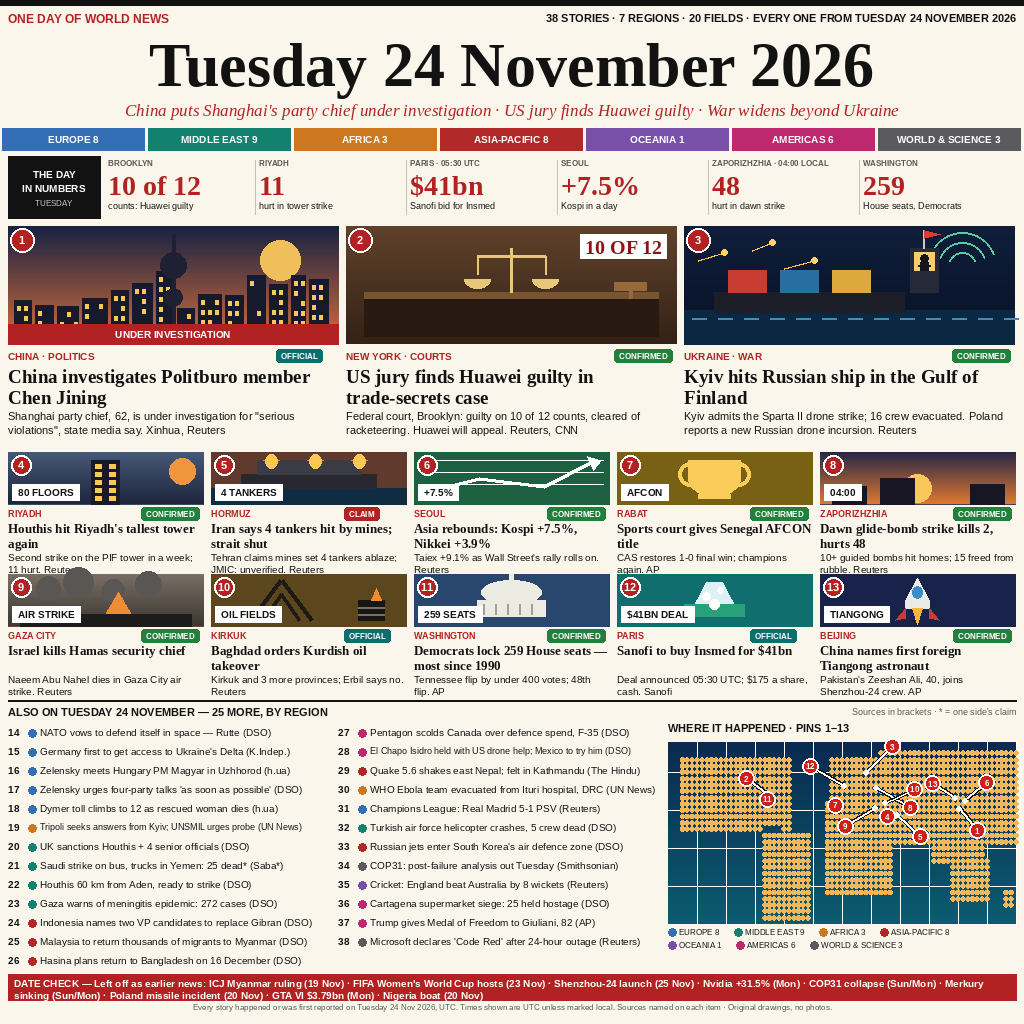
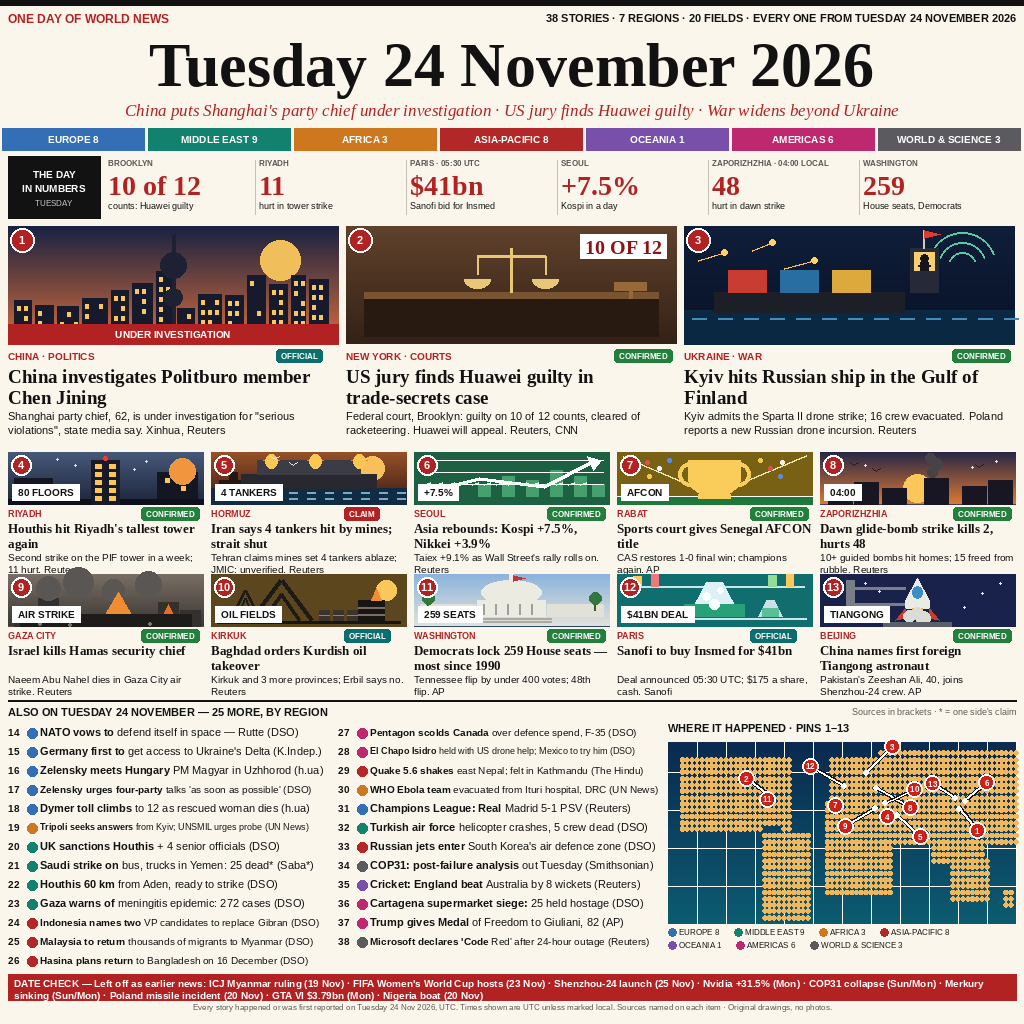
Fix pass: richer card scenes, bolder + larger briefs
- All 10 pictured card scenes enriched in-scene (skyline/stars,
  dusk sea + distant tanker, volume bars + second trend line,
  stadium crowd/beams/pitch, dawn skyline + smoke, ruined skyline
  + second flame, second derrick + sun + barrels, capitol wings/
  trees/flag/steps, lab shelf + second flask, gantry + plume/pad)
- Briefs: base 10px -> 11px (floor 9px), first 3 words bolded,
  region dots 8px -> 10px; texts verbatim, 0 overflows
- No story facts, figures, sources, counts or DATE CHECK changed

diff --git a/frontpage2.py b/frontpage2.py
@@ -355,25 +355,62 @@ def card_scene(d, x, y, w, h, kind, tag, bg):
     d.rectangle([x, y, x + w, y + h], fill=bg)
     if kind == "tower":
         vgrad(d, (x, y, x + w, y + h), (70, 88, 120), (30, 38, 60))
+        # flanking skyline
+        d.rectangle([x + 6, y + h - 26, x + 44, y + h], fill=(20, 22, 34))
+        d.rectangle([x + w - 46, y + h - 32, x + w - 6, y + h], fill=(20, 22, 34))
+        for (wx, wy) in ((x + 12, y + h - 20), (x + 26, y + h - 14),
+                         (x + w - 38, y + h - 26), (x + w - 22, y + h - 18)):
+            d.rectangle([wx, wy, wx + 4, wy + 4], fill=(250, 200, 90))
+        d.rectangle([x, y + h - 5, x + w, y + h], fill=(14, 16, 26))
+        for (sx, sy) in ((x + 48, y + 6), (x + 66, y + 12), (x + w - 58, y + 8), (x + w - 70, y + 16)):
+            d.ellipse([sx, sy, sx + 2, sy + 2], fill=(220, 225, 240))
         d.rectangle([x + w // 2 - 14, y + 8, x + w // 2 + 14, y + h], fill=(24, 26, 40))
         for wy in range(y + 12, y + h - 4, 8):
             d.rectangle([x + w // 2 - 10, wy, x + w // 2 - 4, wy + 4], fill=(250, 200, 90))
             d.rectangle([x + w // 2 + 4, wy, x + w // 2 + 10, wy + 4], fill=(250, 200, 90))
+        d.ellipse([x + w // 2 - 2, y + 4, x + w // 2 + 2, y + 8], fill=(240, 60, 50))
         d.ellipse([x + w - 34, y + 6, x + w - 8, y + 32], fill=(240, 150, 60))
     elif kind == "tanker":
+        vgrad(d, (x, y, x + w, y + h), (150, 80, 40), (60, 30, 24))
+        d.ellipse([x + w - 46, y + 4, x + w - 22, y + 28], fill=(250, 190, 90))
+        # distant tanker silhouette on the horizon
+        d.rectangle([x + 8, y + h - 24, x + 44, y + h - 16], fill=(40, 22, 18))
+        d.rectangle([x + 18, y + h - 32, x + 26, y + h - 24], fill=(40, 22, 18))
         d.rectangle([x, y + h - 16, x + w, y + h], fill=(16, 44, 66))
+        for wy in (y + h - 12, y + h - 6):
+            for wx in range(x + 6, x + w - 6, 18):
+                d.line([(wx, wy), (wx + 8, wy)], fill=(120, 170, 200), width=2)
         d.rectangle([x + 30, y + h - 30, x + w - 30, y + h - 16], fill=(40, 40, 48))
         d.rectangle([x + 46, y + h - 44, x + w - 46, y + h - 30], fill=(60, 60, 70))
         for fx in (x + 52, x + 96, x + 140):
             d.polygon([(fx, y + h - 44), (fx + 8, y + 8), (fx + 16, y + h - 44)], fill=(240, 130, 40))
             d.ellipse([fx + 2, y + 2, fx + 14, y + 16], fill=(250, 200, 80))
+        for (gx, gy) in ((x + 60, y + 4), (x + 78, y + 10)):
+            d.line([(gx, gy), (gx + 4, gy + 3), (gx + 8, gy)], fill=(230, 230, 220), width=1)
     elif kind == "chart":
+        # faint volume bars behind the line
+        for (bx, bh) in ((x + 64, 12), (x + 88, 20), (x + 112, 16), (x + 136, 26),
+                         (x + 160, 20), (x + 178, 12)):
+            d.rectangle([bx, y + h - 8 - bh, bx + 12, y + h - 8], fill=(70, 160, 110))
         d.line([(x + 8, y + h - 12), (x + w // 3, y + h - 26), (x + 2 * w // 3, y + h - 18),
                 (x + w - 14, y + 8)], fill=(255, 255, 255), width=4)
         d.polygon([(x + w - 22, y + 4), (x + w - 8, y + 8), (x + w - 16, y + 18)], fill=(255, 255, 255))
         for gy in range(y + 8, y + h - 8, 12):
             d.line([(x + 6, gy), (x + w - 6, gy)], fill=(255, 255, 255, 60), width=1)
+        # second, flatter trend line (dashed)
+        for sx in range(x + 10, x + w - 20, 12):
+            d.line([(sx, y + h - 20), (sx + 6, y + h - 22)], fill=(200, 255, 220), width=2)
     elif kind == "trophy":
+        # stadium: floodlight beams + crowd + pitch
+        d.line([(x + 6, y + 4), (x + w // 2 - 30, y + 30)], fill=(240, 235, 170), width=2)
+        d.line([(x + w - 6, y + 4), (x + w // 2 + 30, y + 30)], fill=(240, 235, 170), width=2)
+        for (cx, cy, cc) in ((x + 30, y + 10, (220, 80, 80)), (x + 42, y + 16, (240, 240, 240)),
+                             (x + 52, y + 8, (90, 140, 220)), (x + w - 30, y + 10, (240, 240, 240)),
+                             (x + w - 42, y + 16, (220, 80, 80)), (x + w - 52, y + 8, (240, 200, 80)),
+                             (x + 32, y + 24, (240, 200, 80)), (x + w - 32, y + 24, (90, 140, 220))):
+            d.ellipse([cx - 2, cy - 2, cx + 2, cy + 2], fill=cc)
+        d.rectangle([x, y + h - 8, x + w, y + h], fill=(30, 120, 60))
+        d.line([(x, y + h - 8), (x + w, y + h - 8)], fill=(255, 255, 255), width=1)
         d.ellipse([x + w // 2 - 26, y + 8, x + w // 2 + 26, y + 44], fill=(250, 205, 90))
         d.rectangle([x + w // 2 - 26, y + 8, x + w // 2 + 26, y + 26], fill=(250, 205, 90))
         d.rectangle([x + w // 2 - 4, y + 40, x + w // 2 + 4, y + h - 8], fill=(250, 205, 90))
@@ -382,30 +419,69 @@ def card_scene(d, x, y, w, h, kind, tag, bg):
         d.arc([x + w // 2 + 12, y + 10, x + w // 2 + 36, y + 34], 270, 90, fill=(250, 205, 90), width=4)
     elif kind == "dawn":
         vgrad(d, (x, y, x + w, y + h), (40, 40, 70), (220, 120, 50))
+        for (sx, sy) in ((x + 20, y + 6), (x + 44, y + 12), (x + w - 20, y + 8), (x + w - 44, y + 14)):
+            d.ellipse([sx, sy, sx + 2, sy + 2], fill=(230, 230, 240))
+        for (gx, gy) in ((x + 30, y + 10), (x + 52, y + 16), (x + w - 40, y + 12)):
+            d.line([(gx, gy), (gx + 4, gy + 3), (gx + 8, gy)], fill=(30, 28, 40), width=1)
         d.ellipse([x + w // 2 - 14, y + h - 30, x + w // 2 + 14, y + h - 2], fill=(250, 200, 90))
-        for (bx, bh) in ((x + 12, 18), (x + 60, 26), (x + 150, 20)):
-            d.rectangle([bx, y + h - bh, bx + 34, y + h], fill=(24, 22, 34))
+        for (bx, bh) in ((x + 8, 14), (x + 34, 22), (x + 62, 16), (x + 104, 26), (x + 142, 18), (x + 168, 24)):
+            d.rectangle([bx, y + h - bh, bx + 24, y + h], fill=(24, 22, 34))
+        # smoke column from the hit building (kept inside the scene box)
+        for (sx, sy, r) in ((x + 112, y + h - 32, 5), (x + 116, y + h - 40, 6), (x + 110, y + h - 46, 5)):
+            d.ellipse([sx - r, sy - r, sx + r, sy + r], fill=(70, 66, 70))
     elif kind == "smoke":
         vgrad(d, (x, y, x + w, y + h), (120, 110, 100), (60, 56, 52))
+        # ruined skyline behind the smoke
+        for (bx, bh) in ((x + 6, 20), (x + 30, 28), (x + 150, 24), (x + 172, 16)):
+            d.rectangle([bx, y + h - bh, bx + 20, y + h], fill=(52, 48, 46))
         for (sx, sy, r) in ((x + 40, y + 14, 12), (x + 70, y + 8, 15), (x + 105, y + 16, 11),
                             (x + 140, y + 10, 13)):
             d.ellipse([sx - r, sy - r, sx + r, sy + r], fill=(90, 86, 84))
         d.polygon([(x + 90, y + h), (x + 110, y + 18), (x + 130, y + h)], fill=(240, 140, 50))
+        d.polygon([(x + 150, y + h), (x + 160, y + 30), (x + 170, y + h)], fill=(230, 110, 40))
         d.rectangle([x + 12, y + h - 12, x + w - 12, y + h], fill=(30, 28, 26))
+        for (rx, ry) in ((x + 30, y + h - 4), (x + 60, y + h - 3), (x + 140, y + h - 4)):
+            d.ellipse([rx, ry, rx + 3, ry + 3], fill=(120, 116, 110))
     elif kind == "derrick":
+        d.ellipse([x + w - 30, y + 6, x + w - 10, y + 26], fill=(250, 200, 90))
+        # second, smaller derrick at left
+        d.line([(x + 18, y + h - 6), (x + 34, y + 16), (x + 50, y + h - 6)], fill=(30, 26, 22), width=3)
+        d.line([(x + 26, y + h - 6), (x + 34, y + 24), (x + 42, y + h - 6)], fill=(30, 26, 22), width=2)
         d.line([(x + 40, y + h - 6), (x + 70, y + 6), (x + 100, y + h - 6)], fill=(30, 26, 22), width=4)
         d.line([(x + 52, y + h - 6), (x + 70, y + 20), (x + 88, y + h - 6)], fill=(30, 26, 22), width=3)
         d.rectangle([x + w - 48, y + h - 26, x + w - 22, y + h - 6], fill=(24, 22, 20))
         d.line([(x + w - 48, y + h - 19), (x + w - 22, y + h - 19)], fill=(120, 110, 100), width=2)
         d.line([(x + w - 48, y + h - 12), (x + w - 22, y + h - 12)], fill=(120, 110, 100), width=2)
         d.polygon([(x + w - 35, y + h - 26), (x + w - 30, y + h - 38), (x + w - 25, y + h - 26)], fill=(240, 140, 50))
+        # pipeline + barrels along the ground
+        d.line([(x + 6, y + h - 4), (x + w - 6, y + h - 4)], fill=(24, 22, 20), width=3)
+        for bx in (x + 108, x + 122, x + 136):
+            d.rectangle([bx, y + h - 16, bx + 10, y + h - 6], fill=(60, 52, 44))
+            d.line([(bx, y + h - 11), (bx + 10, y + h - 11)], fill=(140, 130, 120), width=1)
     elif kind == "capitol":
+        vgrad(d, (x, y, x + w, y + h), (140, 180, 220), (225, 225, 220))
+        # side wings + trees
+        d.rectangle([x + 6, y + 30, x + w // 2 - 36, y + h - 10], fill=(225, 225, 215))
+        d.rectangle([x + w // 2 + 36, y + 30, x + w - 6, y + h - 10], fill=(225, 225, 215))
+        for (tx, ty) in ((x + 14, y + h - 26), (x + w - 14, y + h - 26)):
+            d.line([(tx, ty + 10), (tx, ty)], fill=(60, 90, 50), width=2)
+            d.ellipse([tx - 6, ty - 8, tx + 6, ty + 4], fill=(50, 120, 60))
         d.ellipse([x + w // 2 - 30, y + 6, x + w // 2 + 30, y + 30], fill=(235, 235, 225))
         d.rectangle([x + w // 2 - 34, y + 26, x + w // 2 + 34, y + h - 10], fill=(235, 235, 225))
         for cx in range(x + w // 2 - 28, x + w // 2 + 29, 12):
             d.line([(cx, y + 30), (cx, y + h - 12)], fill=(160, 160, 150), width=2)
         d.rectangle([x + w // 2 - 2, y + 0, x + w // 2 + 2, y + 8], fill=(235, 235, 225))
+        # small flag on the finial + steps
+        d.polygon([(x + w // 2 + 2, y + 1), (x + w // 2 + 14, y + 4),
+                   (x + w // 2 + 2, y + 7)], fill=(200, 50, 50))
+        for sy in (y + h - 8, y + h - 5):
+            d.line([(x + w // 2 - 40, sy), (x + w // 2 + 40, sy)], fill=(170, 170, 160), width=2)
     elif kind == "flask":
+        # shelf with bottles at the back
+        d.line([(x + 8, y + 12), (x + w - 8, y + 12)], fill=(200, 230, 235), width=2)
+        for (bx, bw2, bh2, bc) in ((x + 16, 8, 10, (255, 200, 90)), (x + 34, 7, 12, (240, 120, 120)),
+                                   (x + w - 44, 8, 11, (150, 220, 150)), (x + w - 26, 7, 12, (255, 200, 90))):
+            d.rectangle([bx, y + 12 - bh2, bx + bw2, y + 12], fill=bc)
         d.polygon([(x + w // 2 - 8, y + 8), (x + w // 2 + 8, y + 8),
                    (x + w // 2 + 26, y + h - 10), (x + w // 2 - 26, y + h - 10)],
                   fill=(220, 240, 245))
@@ -413,7 +489,19 @@ def card_scene(d, x, y, w, h, kind, tag, bg):
         for (px, py, r) in ((x + w // 2 - 8, y + 22, 4), (x + w // 2 + 6, y + 16, 3),
                             (x + w // 2, y + 30, 5)):
             d.ellipse([px - r, py - r, px + r, py + r], fill=(255, 255, 255))
+        # bench line + small second flask
+        d.line([(x + 6, y + h - 8), (x + w - 6, y + h - 8)], fill=(200, 230, 235), width=2)
+        d.polygon([(x + w - 46, y + 26), (x + w - 38, y + 26),
+                   (x + w - 30, y + h - 10), (x + w - 54, y + h - 10)], fill=(200, 225, 230))
+        d.rectangle([x + w - 50, y + h - 18, x + w - 34, y + h - 10], fill=(90, 190, 150))
     elif kind == "rocket":
+        for (sx, sy) in ((x + 12, y + 40), (x + 44, y + 8), (x + 58, y + 16),
+                         (x + w - 16, y + 8), (x + w - 34, y + 18), (x + w - 52, y + 32)):
+            d.ellipse([sx, sy, sx + 2, sy + 2], fill=(230, 235, 250))
+        # launch gantry left of the rocket
+        d.rectangle([x + 26, y + 6, x + 34, y + h - 6], fill=(120, 125, 135))
+        d.line([(x + 34, y + 14), (x + w // 2 - 12, y + 14)], fill=(120, 125, 135), width=3)
+        d.line([(x + 34, y + 30), (x + w // 2 - 12, y + 30)], fill=(120, 125, 135), width=3)
         d.polygon([(x + w // 2, y + 4), (x + w // 2 + 12, y + 26),
                    (x + w // 2 + 12, y + h - 18), (x + w // 2 - 12, y + h - 18),
                    (x + w // 2 - 12, y + 26)], fill=(235, 235, 230))
@@ -424,6 +512,11 @@ def card_scene(d, x, y, w, h, kind, tag, bg):
                    (x + w // 2 + 12, y + h - 8)], fill=(200, 60, 50))
         d.polygon([(x + w // 2 - 5, y + h - 18), (x + w // 2 + 5, y + h - 18),
                    (x + w // 2, y + h - 2)], fill=(250, 180, 60))
+        # exhaust plume + pad
+        for (px, py, r) in ((x + w // 2 - 8, y + h - 10, 6), (x + w // 2 + 6, y + h - 8, 7),
+                            (x + w // 2, y + h - 14, 5)):
+            d.ellipse([px - r, py - r, px + r, py + r], fill=(220, 220, 215))
+        d.rectangle([x + w // 2 - 34, y + h - 4, x + w // 2 + 34, y + h], fill=(90, 95, 105))
     # tag chip, bottom-left
     f = Fsans(10, bold=True)
     tw = f.getlength(tag) + 12
@@ -629,18 +722,22 @@ def build():
             yy = by + j * 19
             f = Fsans(10, bold=True)
             d.text((x0, yy), str(n), font=f, fill=INK)
-            d.ellipse([x0 + 20, yy + 3, x0 + 28, yy + 11], fill=RHEX[region])
+            d.ellipse([x0 + 19, yy + 2, x0 + 29, yy + 12], fill=RHEX[region])
             line = "%s (%s)" % (txt, src)
-            f2 = Fsans(10)
-            if f2.getlength(line) > bw - 34:
-                # shrink to fit one line
-                sz = 10
-                while sz > 8 and Fsans(sz).getlength(line) > bw - 34:
-                    sz -= 1
-                f2 = Fsans(sz)
-                if f2.getlength(line) > bw - 34:
-                    OVERFLOWS.append("brief %d too long even at 8px" % n)
-            d.text((x0 + 32, yy), line, font=f2, fill=INK)
+            words = line.split(" ")
+            lead = " ".join(words[:3])
+            rest = " " + " ".join(words[3:])
+            # fit: bold lead + regular rest, base 11px (was 10), floor 9px
+            sz = 11
+            while sz > 9 and (Fsans(sz, bold=True).getlength(lead)
+                              + Fsans(sz).getlength(rest)) > bw - 34:
+                sz -= 1
+            fb = Fsans(sz, bold=True)
+            f2 = Fsans(sz)
+            if fb.getlength(lead) + f2.getlength(rest) > bw - 34:
+                OVERFLOWS.append("brief %d too long even at 9px" % n)
+            d.text((x0 + 32, yy), lead, font=fb, fill=INK)
+            d.text((x0 + 32 + fb.getlength(lead), yy), rest, font=f2, fill=INK)
     # map
     mx, my, mw, mh = 668, by - 4, W - 8 - 668, 244
     text_w(d, mx, my, "WHERE IT HAPPENED \u00b7 PINS 1\u201313", Fsans(11, bold=True))
